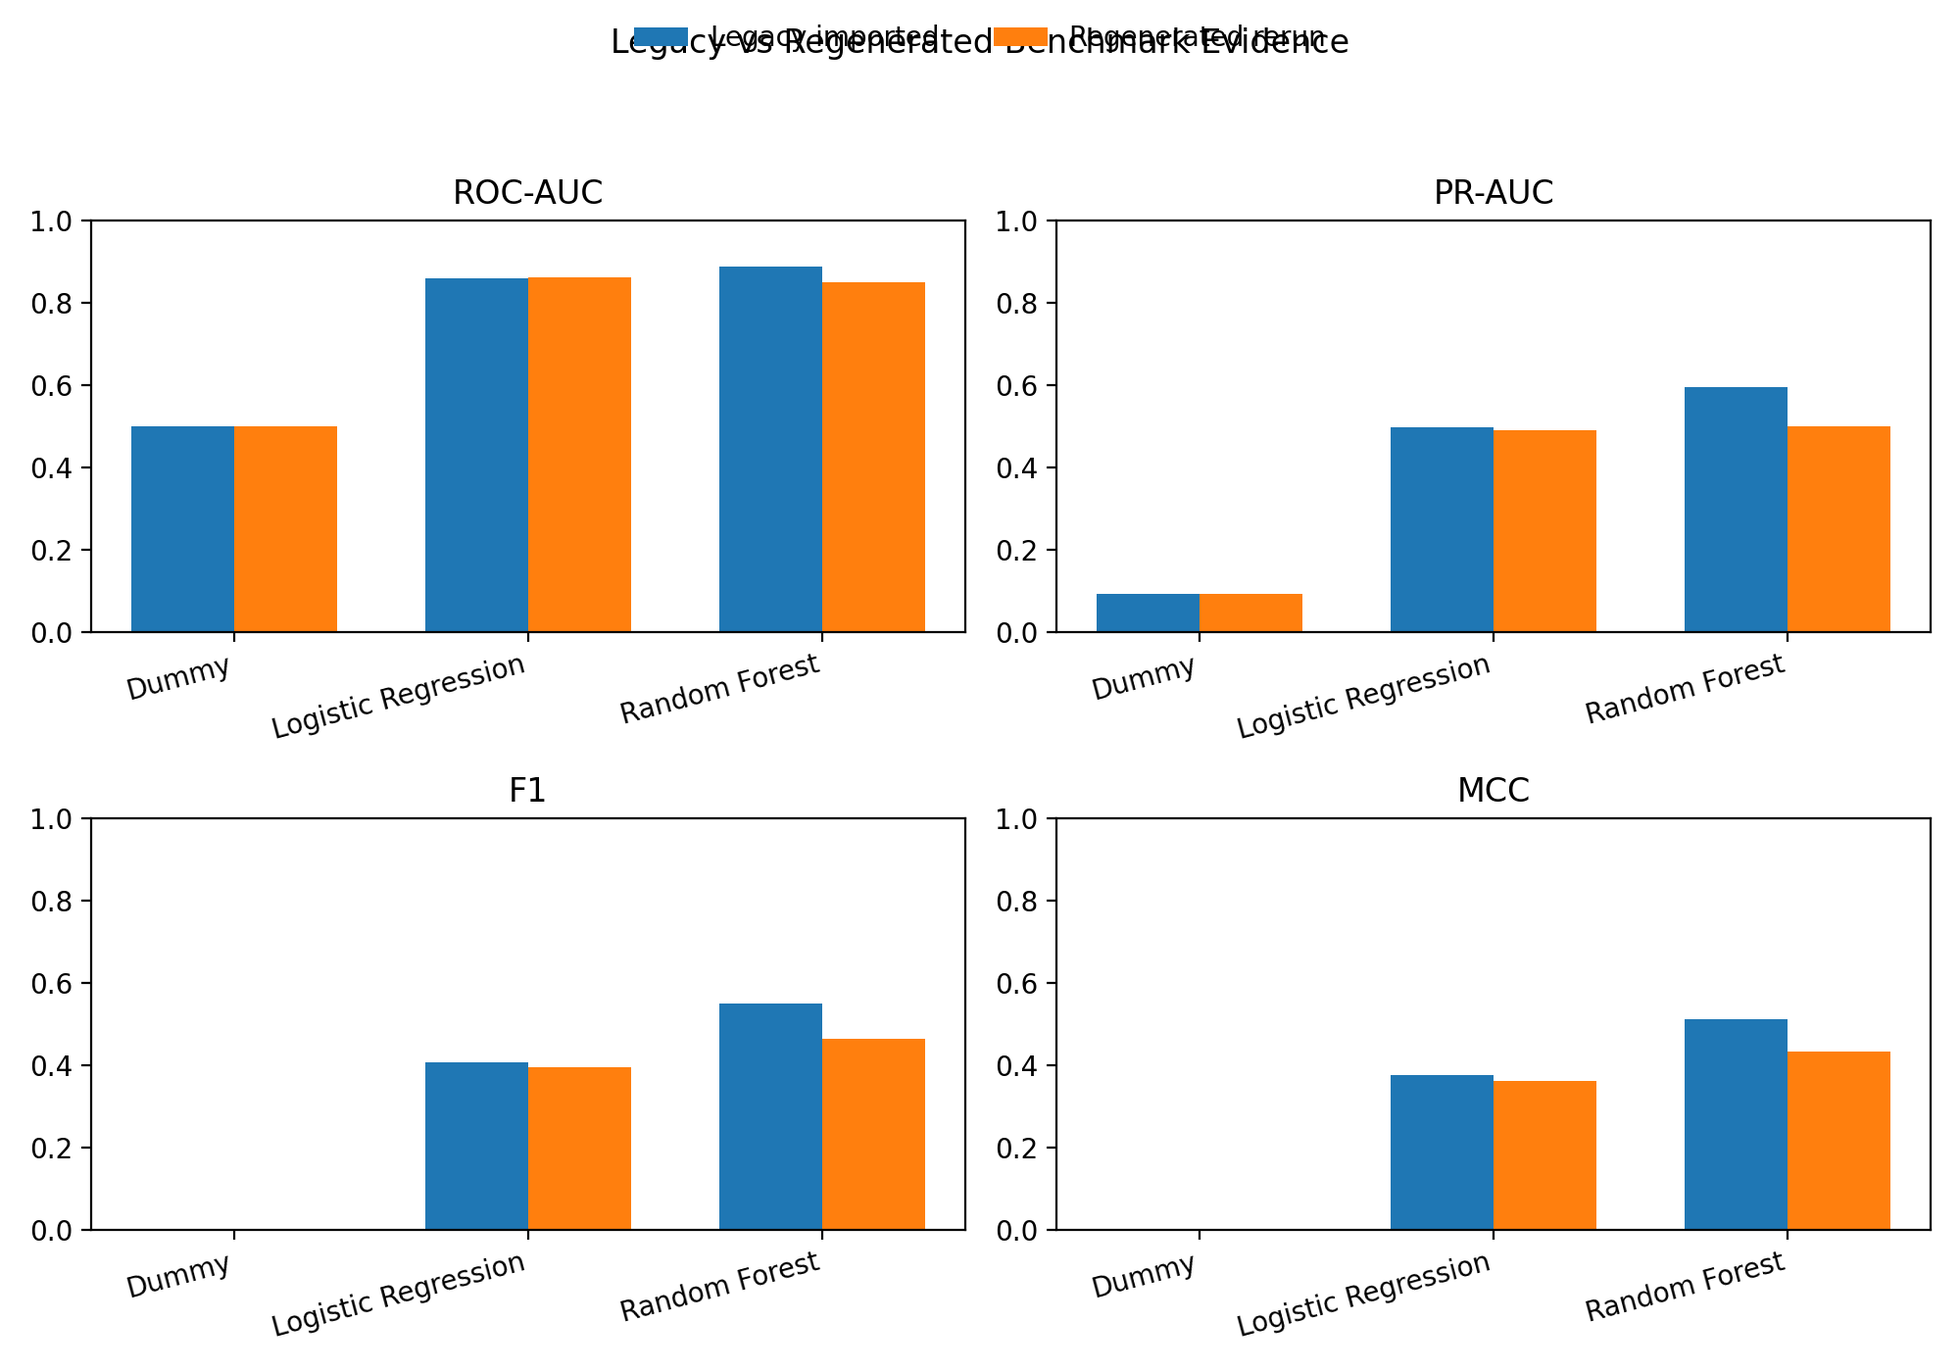
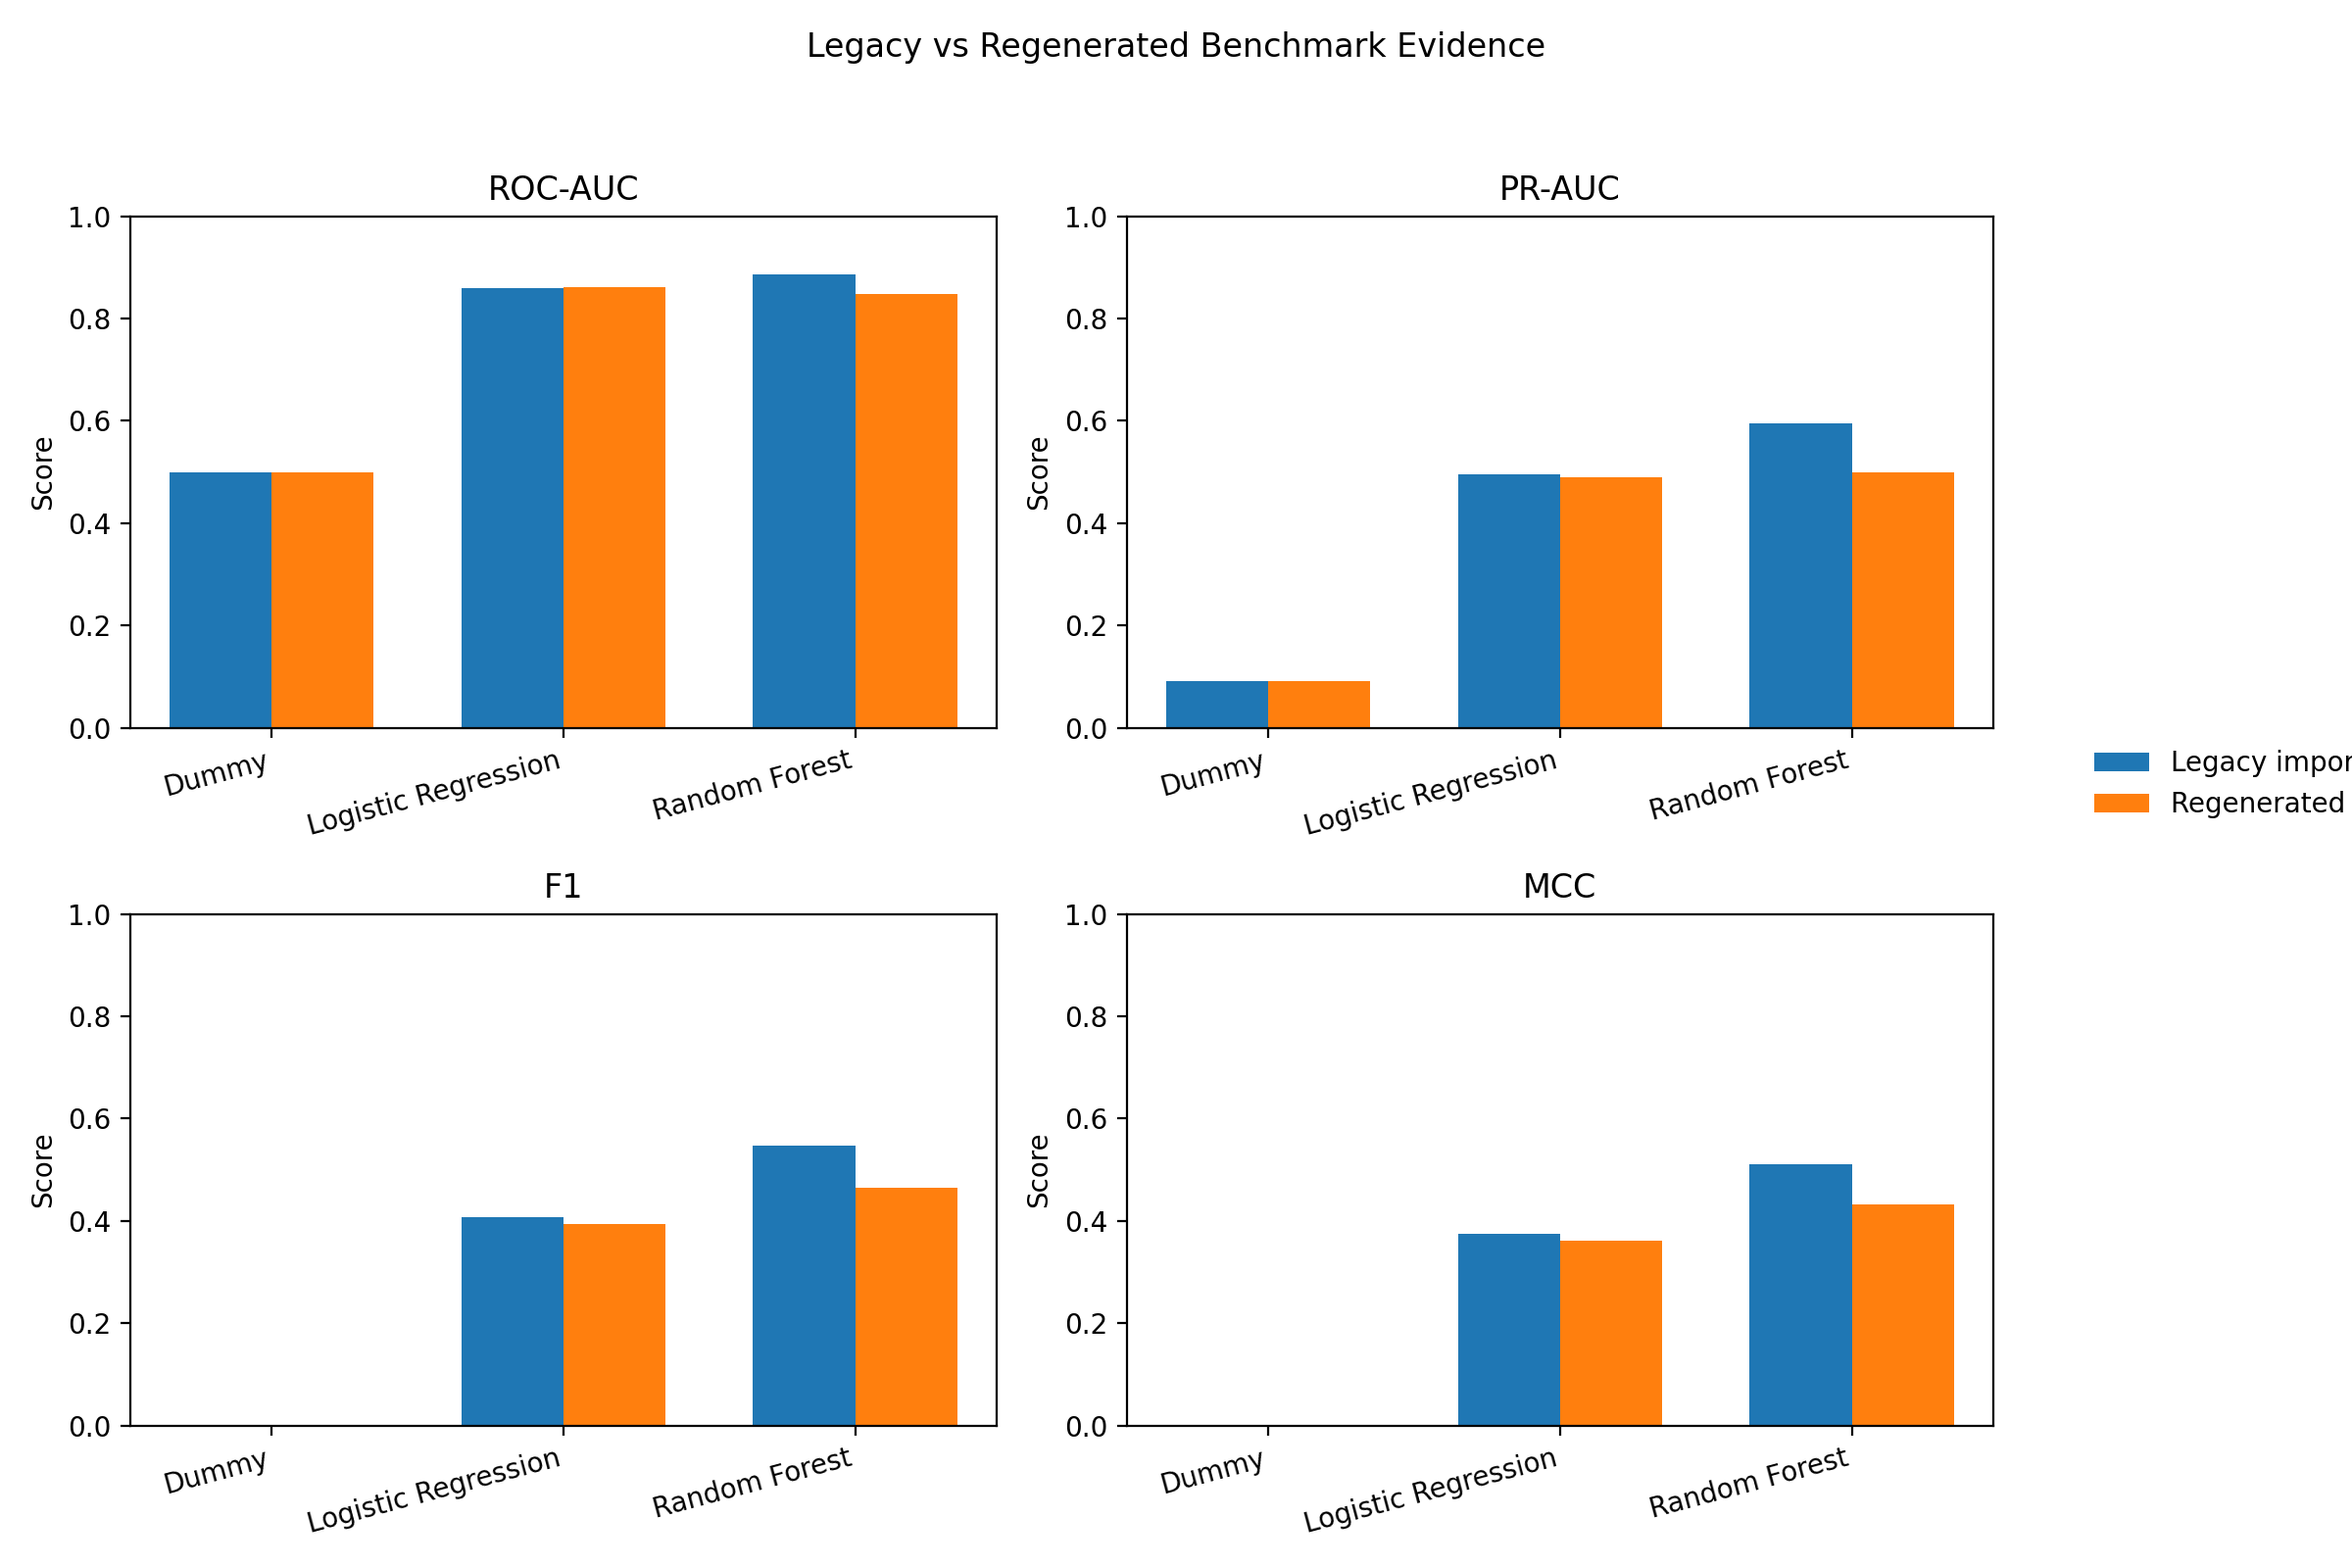
Refine README visuals and add figure generation workflow

diff --git a/scripts/generate_figures.py b/scripts/generate_figures.py
@@ -102,7 +102,7 @@ def save_legacy_vs_rerun_metrics() -> Path:
     metrics = ["roc_auc", "pr_auc", "f1", "mcc"]
     model_order = ["Dummy", "Logistic Regression", "Random Forest"]
 
-    fig, axes = plt.subplots(2, 2, figsize=(10, 7), sharey=False)
+    fig, axes = plt.subplots(2, 2, figsize=(12, 8), sharey=False)
     axes = axes.flatten()
 
     for ax, metric in zip(axes, metrics):
@@ -125,19 +125,26 @@ def save_legacy_vs_rerun_metrics() -> Path:
             )
             for model in model_order
         ]
-        x_positions = range(len(model_order))
+        x_positions = list(range(len(model_order)))
         width = 0.35
         ax.bar([x - width / 2 for x in x_positions], legacy_vals, width=width, label="Legacy imported")
         ax.bar([x + width / 2 for x in x_positions], rerun_vals, width=width, label="Regenerated rerun")
         ax.set_title(metric.replace("_", "-").upper())
-        ax.set_xticks(list(x_positions))
+        ax.set_xticks(x_positions)
         ax.set_xticklabels(model_order, rotation=15, ha="right")
         ax.set_ylim(0, 1.0)
+        ax.set_ylabel("Score")
 
     handles, labels = axes[0].get_legend_handles_labels()
-    fig.legend(handles, labels, loc="upper center", ncol=2, frameon=False)
+    fig.legend(
+        handles,
+        labels,
+        loc="center left",
+        bbox_to_anchor=(0.88, 0.5),
+        frameon=False,
+    )
     fig.suptitle("Legacy vs Regenerated Benchmark Evidence", y=0.98)
-    fig.tight_layout(rect=(0, 0, 1, 0.94))
+    fig.tight_layout(rect=(0, 0, 0.86, 0.95))
     output_path = FIGURES_DIR / "legacy_vs_rerun_metrics.png"
     fig.savefig(output_path, dpi=200)
     plt.close(fig)

diff --git a/README.md b/README.md
@@ -21,9 +21,9 @@ This repository is not intended to present a universal solution to biological de
 - produce candidate ranking outputs
 - track provenance for reproducibility
 
-## Current wedge
+## Initial focus
 
-The current v0.1 wedge is:
+The current v0.1 focus is:
 
 **BBB-oriented peptide / delivery-signal validation**
 
@@ -118,9 +118,20 @@ permea-signal-ml/
 - `src/`: importable pipeline code for data, features, models, evaluation, and provenance
 - `scripts/`: thin CLI entrypoints for baseline runs and export steps
 
-![Benchmark workflow outputs](figures/benchmark_workflow_outputs.png)
+## Benchmark workflow
 
-*Repository workflow from imported legacy artifacts through onboarding, rerun-ready dataset preparation, benchmark reruns, and contract outputs.*
+```mermaid
+flowchart LR
+    A["Imported legacy artifacts"] --> B["Onboarded dataset"]
+    B --> C["Rerun-ready dataset"]
+    C --> D["Benchmark reruns"]
+    D --> E["Metrics JSON"]
+    D --> F["Predictions CSV"]
+    D --> G["Ranking CSV"]
+    D --> H["Summary CSV"]
+    D --> I["Manifest JSON"]
+    D --> J["Figures"]
+```
 
 ## Baseline run example
 
@@ -159,6 +170,13 @@ This repository is intended to support reproducible workflows by default.
 ![Candidate ranking preview](figures/candidate_ranking_preview.png)
 
 *Top-ranked candidates from the regenerated Random Forest rerun shown as a compact preview rather than a final publication claim.*
+
+## Legacy evidence onboarding status
+
+- imported legacy artifacts are retained as legacy reference material
+- regenerated benchmark-contract reruns are now available for Dummy, Logistic Regression, and Random Forest
+- dataset version, attribution, and licensing remain pending confirmation
+- imported legacy artifacts should not be treated as current benchmark evidence unless rerun under the current contract
 
 ## Connection to Permea Core
 
